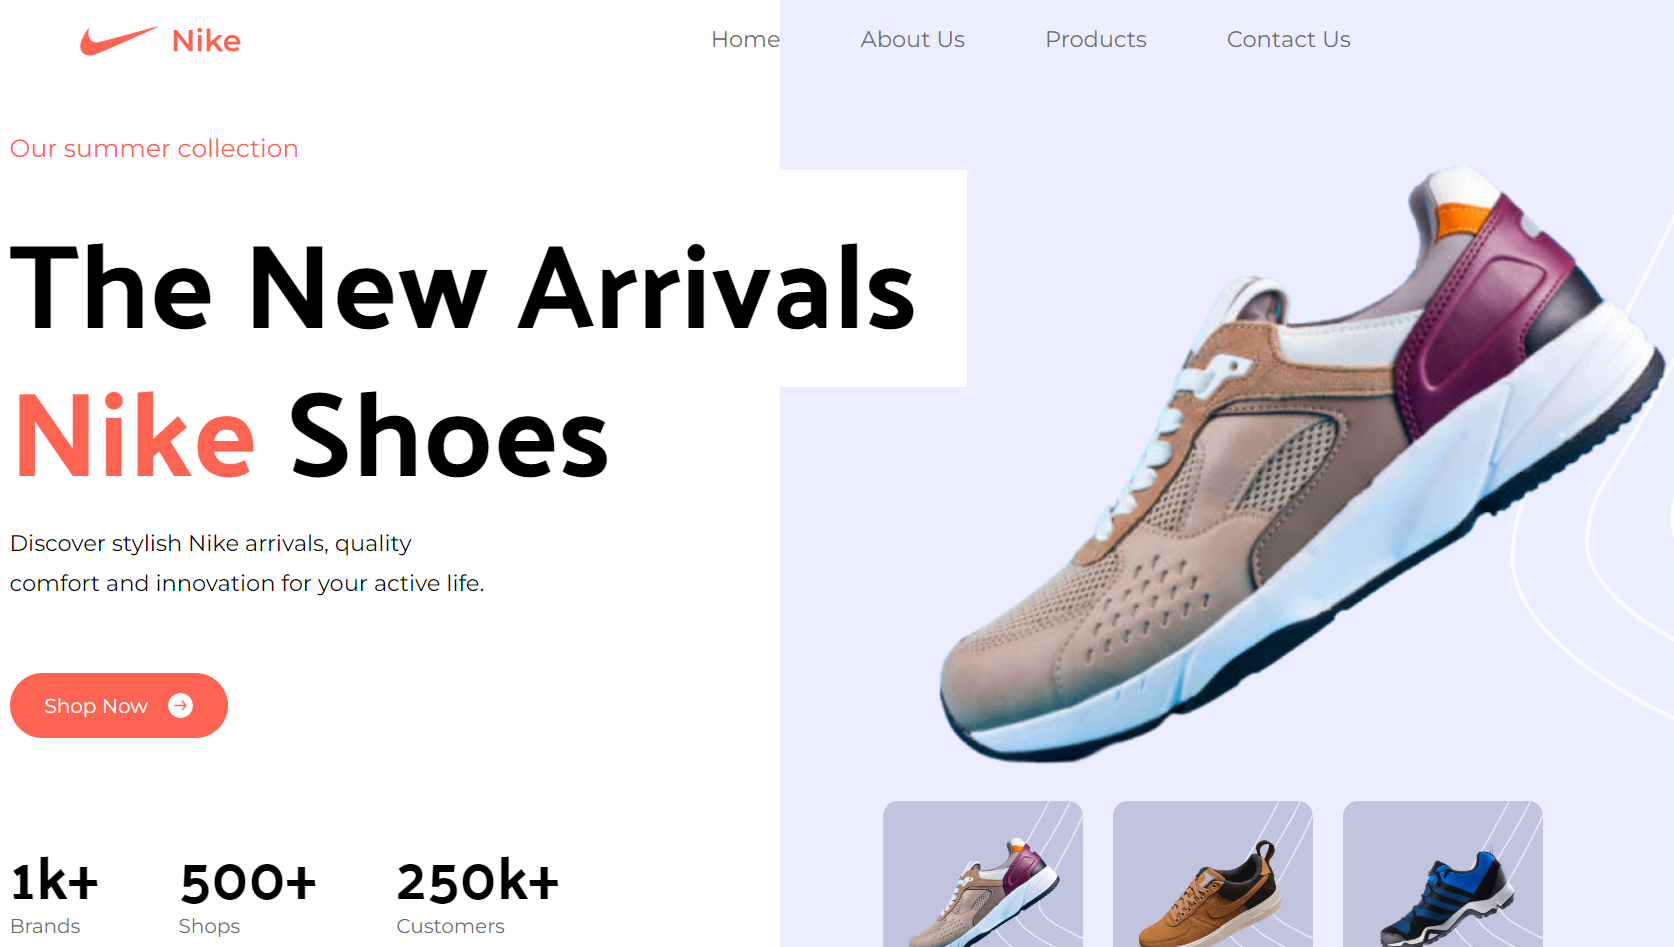
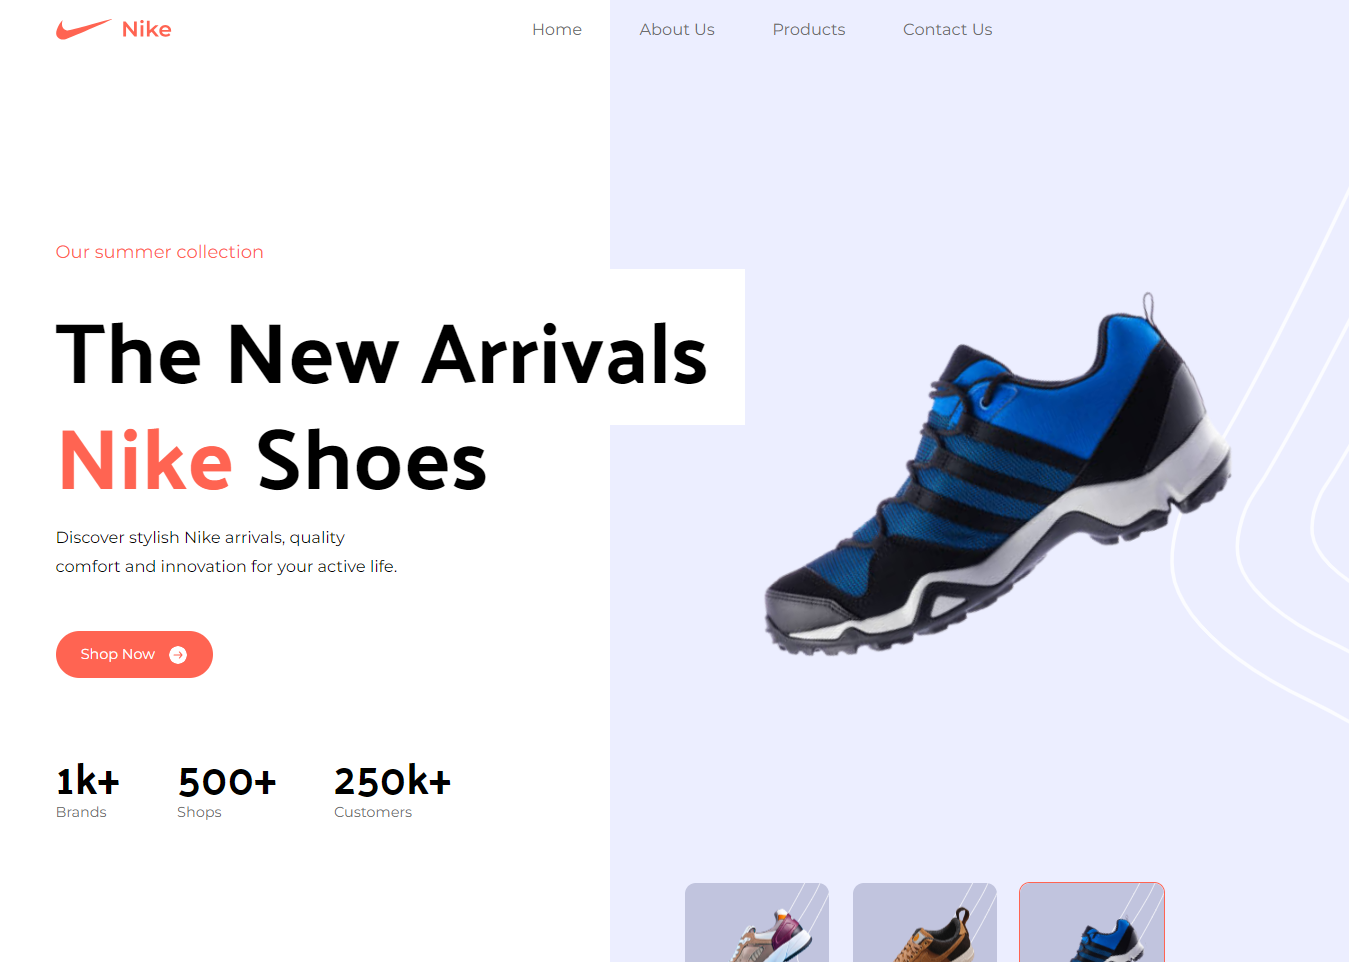
new prop on Button

diff --git a/src/sections/Hero.jsx b/src/sections/Hero.jsx
@@ -6,21 +6,21 @@ import ProductCard from "../components/ProductCard"
 import { useState } from "react"
 
 const Hero = () => {
-  const [img, setImg] = useState(bigShoe1)
+  const [img, setImg] = useState(bigShoe1);
 
   return (
     <section id="home" className="w-full flex xl:flex-row flex-col justify-center min-h-screen gap-10 max-container">
       <div className="relative xl:w-2/5 flex flex-col justify-center items-start w-full max-xl:p-x pt-28">
         <p className="text-xl font-montserrat text-coral-red">Our summer collection</p>
-        <h1 className="mt-10 font-palanquin text-8xl max-sm:text-[72px] max-sm:leading-[82] font-bold">
+        <h1 className="mt-10 font-palanquin text-8xl max-sm:text-[72px] max-sm:leading-[82px] font-bold">
           <span className="xl:bg-white xl:whitespace-nowrap relative z-10 pr-10">The New Arrivals</span>
           <br />
           <span className="text-coral-red inline-block mt-3">Nike</span> Shoes
         </h1>
 
-        <p className="font-montserrat text-slate-ray text-lg leading-8 mt-6 mb-14 sm:max-w-sm">Discover stylish Nike arrivals, quality comfort and innovation for your active life.</p>
+        <p className="font-montserrat text-slate-gray text-lg leading-8 mt-6 mb-14 sm:max-w-sm">Discover stylish Nike arrivals, quality comfort and innovation for your active life.</p>
 
-        <Button label="Shop Now" iconUrl={arrowRight}/>
+        <Button label="Shop Now" iconUrl={arrowRight} color="red"/>
 
         <div className="flex justify-start items-start flex-wrap w-full mt-20 gap-16">  
           {statistics.map((stats, index) => (
@@ -32,13 +32,25 @@ const Hero = () => {
         </div>
       </div>
 
-      <div className="relative flex-1 flex justify-center items-center xl:min-h-screen max-xl:py-40 bg-primary bg-cover bg-hero bg-center">
-        <img src={img} alt="show collection" width={610} height={500} className="object-contain relative z-10"/>
+      <div className='flex max-md:hidden relative flex-1 justify-center items-center xl:min-h-screen max-xl:py-40 bg-primary bg-hero bg-cover bg-center'>
+        <img
+          src={img}
+          alt='shoe colletion'
+          width={610}
+          height={502}
+          className='object-contain relative z-10'
+        />
 
-        <div className="flex sm:gap-6 gap-4 absolute -bottom-[5%] sm:left-[10%] max-sm:px-6">
-            {shoes.map((item) => (
-              <ProductCard key={item.bigShoe} img="" imageUrl={item.bigShoe} changeImage={(item) => {setImg(item)}}/>
-            ))}
+        <div className='flex sm:gap-6 gap-4 absolute -bottom-[5%] sm:left-[10%] max-sm:px-6'>
+          {shoes.map((image, index) => (
+            <div key={index}>
+              <ProductCard
+                imgURL={image}
+                changeImage={(shoe) => setImg(shoe)}
+                image={img}
+              />
+            </div>
+          ))}
         </div>
       </div>
     </section>

diff --git a/src/components/ProductCard.jsx b/src/components/ProductCard.jsx
@@ -1,21 +1,31 @@
-const ProductCard = ({img, imageUrl, changeImage}) => {
+const ProductCard = ({imgURL, changeImage, image}) => {
   
   const handleClick = () => {
-    if (img !== imageUrl.bigShoe) {
-      changeImage(imageUrl.bigShoe)
+    if (image !== imgURL.bigShoe) {
+      changeImage(imgURL.bigShoe);
     }
-  }
+  };
 
   return (
-    <div className={`border-2 rounded-xl ${img === imageUrl ? "border-coral-red" : "border-none"} cursor-pointer max-sm:flex-1`}
+    <div
+      className={`border-2 rounded-xl ${ 
+        image === imgURL.bigShoe
+          ? "border-coral-red"
+          : "border-transparent"
+      } cursor-pointer max-sm:flex-1`}
       onClick={handleClick}
-    > 
-      <div className="flex justify-center items-center bg-card bg-center bg-cover sm:w-40 sm:h-40 rounded-xl max-sm:p-4">
-
-        <img src={imageUrl} alt="" width={127} height={103}/>
+    >
+      <div className='flex justify-center items-center bg-card bg-center bg-cover sm:w-40 sm:h-40 rounded-xl max-sm:p-4'>
+        <img
+          src={imgURL.thumbnail}
+          alt='shoe colletion'
+          width={127}
+          height={103.34}
+          className='object-contain'
+        />
       </div>
     </div>
-  )
+  );
 }
 
 export default ProductCard

diff --git a/src/sections/PopularProducts.jsx b/src/sections/PopularProducts.jsx
@@ -1,7 +1,26 @@
+import { products } from "../constants"
+import PopularProductsCard from "../components/PopularProductsCard"
+
 const PopularProducts = () => {
+
   return (
-    <div>PopularProducts</div>
+    <div className="font-montserrat w-full max-container max-sm:mt-12">
+      <div className="flex flex-col justify-start gap-5">
+        <h1 className="font-bold font-palanquin text-4xl">Our <span className="text-coral-red">Popular</span> Products</h1>
+
+        <p className="font-montserrat text-slate-gray text-lg font-normal leading-7 mt-5">
+          Experience top-notch quality and style with our sought-after <br className="max-md:hidden"/> selections. Discover a world of comfort, design and value.
+        </p>
+      </div>
+
+      <div className="mt-16 grid lg:grid-cols-4 md:grid-cols-3 sm:grid-cols-2 grid-cols-1 sm:gap-6 gap-14">
+        {products.map((item) => (
+            <PopularProductsCard key={item} name={item.name} image={item.imgURL} price={item.price}/>
+          )
+        )}
+      </div>
+    </div>
   )
 }
 
-export default PopularProducts
+export default PopularProducts 

diff --git a/src/sections/SuperProducts.jsx b/src/sections/SuperProducts.jsx
@@ -1,6 +1,27 @@
+import Button from "../components/Button"
+import { shoe8 } from "../assets/images"
+
 const SuperProducts = () => {
   return (
-    <div>SuperProducts</div>
+    <div className="flex justify-around items-stretch flex-wrap font-montserrat max-lg:flex-col gap-10 w-full max-container">
+
+      <div className="lg:max-w-lg ">
+        <h1 className="text-4xl font-bold font-palanquin">We Provide You <span className="text-coral-red">Super Quality</span> Shoes</h1>
+        <p className="info-text mt-6">Ensuring premium comfort and style, our meticulously crafted
+         footwear is designed to elevate your experience, providing you with
+         unmatched quality, innovation, and a touch of elegance.
+        </p>
+        <p className="info-text mt-6 mb-10">Our dedication to detail and excellence ensures your satisfaction.</p>
+
+        <div className="md:w-2/5 ">
+          <Button label="View details" color="red"/>
+        </div>
+      </div>
+
+      <div>
+        <img src={shoe8} alt="shoe" width={570} height={522} className='object-contain'/>
+      </div>
+    </div>
   )
 }
 

diff --git a/src/components/Button.jsx b/src/components/Button.jsx
@@ -1,12 +1,14 @@
-const Button = ({label, iconUrl}) => {
+const Button = ({label, iconUrl, color}) => {
   return (
-    <div className="flex justify-center 
-      items-center gap-2 px-7 py-4 border-coral-red 
-      font-montserrat leading-none rounded-full
-       bg-coral-red text-white cursor-pointer">
+    <div className={`flex justify-center text-lg
+    items-center gap-2 px-7 py-4 ${color === "red" ? "bg-coral-red border-coral-red text-white" : "bg-white border-black border-[1px] text-slate-gray"} 
+    font-montserrat leading-none rounded-full
+   cursor-pointer`}>
+
       {label} 
 
-      <img src={iconUrl} alt="arrow right" className="ml-2 rounded-full w-5 h-5"/>
+      {iconUrl && <img src={iconUrl} alt="arrow right" className="ml-2 rounded-full w-5 h-5"/>}
+      
     </div>
   )
 }

diff --git a/src/sections/Services.jsx b/src/sections/Services.jsx
@@ -1,16 +1,12 @@
+import ServicesCard from "../components/ServicesCard"
 import { services } from "../constants"
 
 const Services = () => {
   return (
-    <main> 
-      <ul className="flex flex-wrap w-full justify-between items-center">
-        {services.map((item) => (
-          <li key={item.label} className="font-bold text-coral-red text-2xl font-montserrat">
-            {item.label}
-            <p className="text-sm text-normal text-slate-gray w-80">{item.subtext}</p>
-          </li>)
-        )}
-      </ul>
+    <main className="flex flex-wrap gap-10 justify-around items-center max-container">
+      {services.map((item) => (
+        <ServicesCard key={item} title={item.label} subTitle={item.subtext} image={item.imgURL} />)
+      )}
     </main>
   )
 }

diff --git a/src/components/PopularProductsCard.jsx b/src/components/PopularProductsCard.jsx
@@ -1,0 +1,21 @@
+import { star } from "../assets/icons"
+
+const PopularProductCard = ({name, price, image}) => {
+  return (
+    <div key={name} className="flex flex-1 flex-col w-full max-sm:w-full items-center">
+      <img src={image} alt={name} className="w-[282px] h-[282px]'"/>
+
+      <div className="mx-3 my-4 text-slate-gray text-left">
+        <div className="flex gap-3 text-xl">
+          <img src={star} alt="Star sign"/>
+          <p className="leading-normal">(4,5)</p>
+        </div>
+
+        <p className="leading-normal font-semibold font-palanquin text-2xl">{name}</p>
+        <p className="leading-normal text-2xl font-semibold text-coral-red">{price}</p>
+      </div>
+    </div>
+  )
+}
+
+export default PopularProductCard

diff --git a/src/components/ServicesCard.jsx b/src/components/ServicesCard.jsx
@@ -1,0 +1,14 @@
+const ServicesCard = ({title, subTitle, image}) => {
+  return (
+    <div className="flex-1 items-start rounded-[15px] shadow-2xl px-10 py-16 w-full">
+      <img src={image} alt={title} />
+
+      <h2 className="font-bold mb-6 font-palanquin text-3xl">{title}</h2>
+      
+      <p className="text-slate-gray text-lg leading-normal">{subTitle}</p>
+      
+    </div>  
+  )
+}
+
+export default ServicesCard

diff --git a/src/App.jsx b/src/App.jsx
@@ -7,7 +7,7 @@ const App = () => {
 
       <Navbar />
 
-      <section className="xl:padding-1 wide:p-r p-b">
+      <section className="xl:p-l wide:p-r p-b">
         <Hero />
       </section>
 
